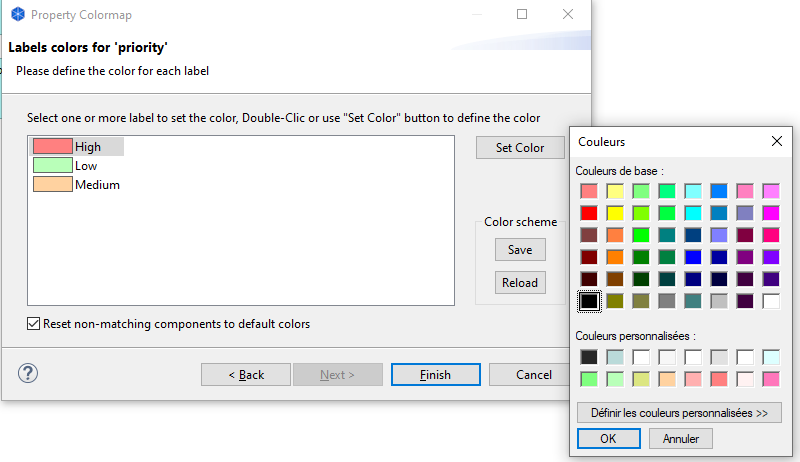
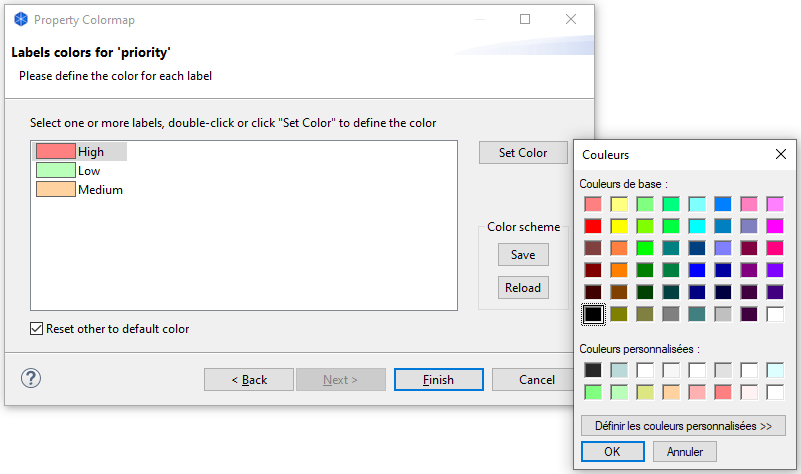
documentation update and completion

Changed region(s): [[0.0, 0.0, 1.0, 1.0], [0.0312, 0.2424, 0.6875, 0.4242]]

diff --git a/doc/Colormap wizard.md b/doc/Colormap wizard.md
@@ -1,0 +1,89 @@
+# Colormap User's Guide
+
+Inspired from **Steven Mileham** [script](https://gist.github.com/smileham/4bbca832d8fe629b72beb4e2b9a4b7ea) and [blog](https://smileham.co.uk/2022/06/15/archi-jarchi-and-rag-status-maps/), a completely redesigned Heatmap/Colormap function as a SWT Wizard to set a visual element background color based on it's property value.
+
+## Installation
+
+Following files and directory structure **MUST** be copied in the jArchi scripting directory (`__SCRIPTS_DIR__`) or a subdirectory and shall respect the tree structure.
+
+```
+Colormap wizard.ajs - launch the Wizard on the current view
+Colormap reapply.ajs - reapply the color scheme on the current view
+lib/
+    misc.js - scripts common utilities
+    ColorModel.js 
+    ColorWizard.js
+    ImageRegistry.js
+    Colormap.scheme/ - directory to store/retrieve default property color schemes
+```
+
+## Execution
+
+The **Wizard** is organized in 3 steps. As with any wizard, it is possible to go back and forth between pages with `< Back` and `Next >` buttons. `Cancel` will stop the Wizard. `Finish` will execute the colorization, if all necessary choices are made.
+
+The **reapply** will apply directly the colormap saved default color scheme to the selected view. See script [details](Colormap%20reapply.md).
+
+### 1) Property selection step
+
+All properties found in any visual element of the current view are listed for selection. Default is last applied property color scheme if any.
+
+![Property selection](./img/Property%20list.png)
+
+Selecting `Next >` will lead to ...
+
+### 2) Labels selection step
+
+The page shows all possible labels associated with the selected property, and used in the selected view. It is possible to select only subset of the values using the checkbox. The `(all labels)` checkbox is a short cut to check or uncheck all labels in the list.
+
+![Labels selection](./img/Property%20labels%20selection.png)
+
+As long as at least one label is selected, it is possible to progress to next page.
+
+if all selected labels are numeric or starts with a number, it is possible to use a **continuous** (= gradient) color scheme instead of the standard categorical (= discrete) color scheme.
+
+![Numeric Labels](./img/Property%20labels%20selection%202.png)
+
+### 3.a) Categorical color scheme 
+
+in this page, you can set a specific color per property label, by either double clicking the color, or using the `Set color` button (multiple selection is possible in this case). NB: The custom color palette is the one used by archimate.
+
+A property label which color has not been defined yet is represented by ![Unknown color](./img/UnknownColor.png).
+
+![Categorical](./img/Category%20scheme%20colors.png)
+
+The `Reset other to default color` checkbox will instruct to reset to default color all visual elements in the view which don't have the property or a property label color defined.
+
+The `Color scheme` section is explained below. If a default color scheme exists for the property, it will be applied.
+
+
+### 3.b) Continuous color scheme 
+
+In this scheme, you define the colors for the lowest and highest numerical values of the property labels. A proportional gradient color scheme is applied to each label numerical value. 
+
+A color has not been defined yet is represented by ![Unknown color](./img/UnknownColor.png).
+
+![Continuous](./img/Continuous%20scheme%20colors.png)
+
+### Creating or reloading color scheme
+
+In step 3), for both color schemes, you can save the current color definition as the default (and the one to reapply per default for the property) using the `Save` button. `Reload` will overwrite the current label selection color scheme with the saved one.
+
+**NB**: the **Reapply** script is based on the name of the property. It will reapply the color scheme definition **as saved**, which may be not the one last manually applied but not saved.
+
+![default scheme](./img/Default%20Color.png)
+
+## Finishing and Legend creation
+
+If execution is asked (button `Finish` pressed), defined color scheme will be applied to the visual elements in the view. 
+
+A legend will be created. If a previous legend was created, it will be replaced at the same position, otherwise it will be positioned by default in the top left corner of the current view.
+
+#### Example for categorical scale
+
+![Categorical result](./img/Category%20Scheme%20Result.png)
+
+#### Example for continuous scale
+
+![Continuous result](./img/Continuous%20color%20output.png)
+
+As with any jArchi script, if the result doesn't suit you, you can cancel the changes by just selecting `Edit | Undo (CTRL-Z)` menu item (Reselect the view first if necessary).

diff --git a/doc/Colormap reapply.md b/doc/Colormap reapply.md
@@ -1,0 +1,25 @@
+# Colormap reapply
+
+This is the companion .ajs script to [Colormap wizard](Colormap.md).
+
+## Installation
+
+This script requires `Colormap wizard.ajs` and associated javascript libraries.
+
+See section installation in [Colormap wizard](Colormap.md).
+
+## Use cases
+
+When a color scheme has been applied to a view, the colormap **Wizard** saves the name of the selected property for colorization among the view's properties under then name `.colormap.property`.
+
+It is so possible for the user to reapply the color scheme associated to this selected property without going thru the **Wizard**, by launching this script. For instance, when some selected property values has been changed for visual objects present in the view, and you want to colorize according to the visual element current property values.
+
+## Limitations
+
+This script will automatically defer to the **Wizard** in the following cases:
+
+1. There is no saved color scheme associated to the property (file `__DIR__/lib/colorscheme/<property>.json`)
+2. None of the visual objects in the view have the property valued
+3. For a Categorical color scheme, at least one visual object property value has no corresponding color
+4. For a Continuous color scheme, among all the visual objects property values, the lowest or highest property value is out of range of the color scheme scale.
+

diff --git a/README.md b/README.md
@@ -16,23 +16,21 @@ Just copy the necessary `.ajs` and associated `.js` scripts/libraries to your ow
 
 **Nota Bene:** Many scripts are using the common utilities library [scripts/lib/misc.js](doc/misc.js.md)
 
-# Noteworthy scripts 
+# Noteworthy 
 
 Custom organic grown developed or adapted by yours truly, without any ChatGpt inside :-) 
 
-The `.ajs` except when noted, resides in the `scripts` directory
-
-## typing/globals.d.ts 
+## 0. [globals.d.ts](scripts/typings/globals.d.ts)
 
 For development, allow code completion in VSCode for Archimate jArchi api. To be used in conjunction with [`jsconfig.json`](https://code.visualstudio.com/docs/languages/jsconfig).
 
-## 1. [Colormap.ajs, Colormap - reapply.ajs](doc/Colormap.md)
+## 1. [Colormap wizard.ajs](doc/Colormap%20wizard.md), [Colormap reapply.ajs](doc/Colormap%20reapply.md)
 
 A property heatmap Wizard, with either a discrete categorical color scale or a continuous (gradient) numeric color scale. 
 
 See [User's Guide](doc/Colormap.md) for details and installation.
 
-## 2. Generate legend.ajs
+## 2. [Generate legend.ajs](scripts/Generate%20legend.ajs)
 
 Modified extended version of the script of David Girard, create the view legend for each type of element used in the view.
 The specialization is taken into account **only** if there is a custom icon associated.
